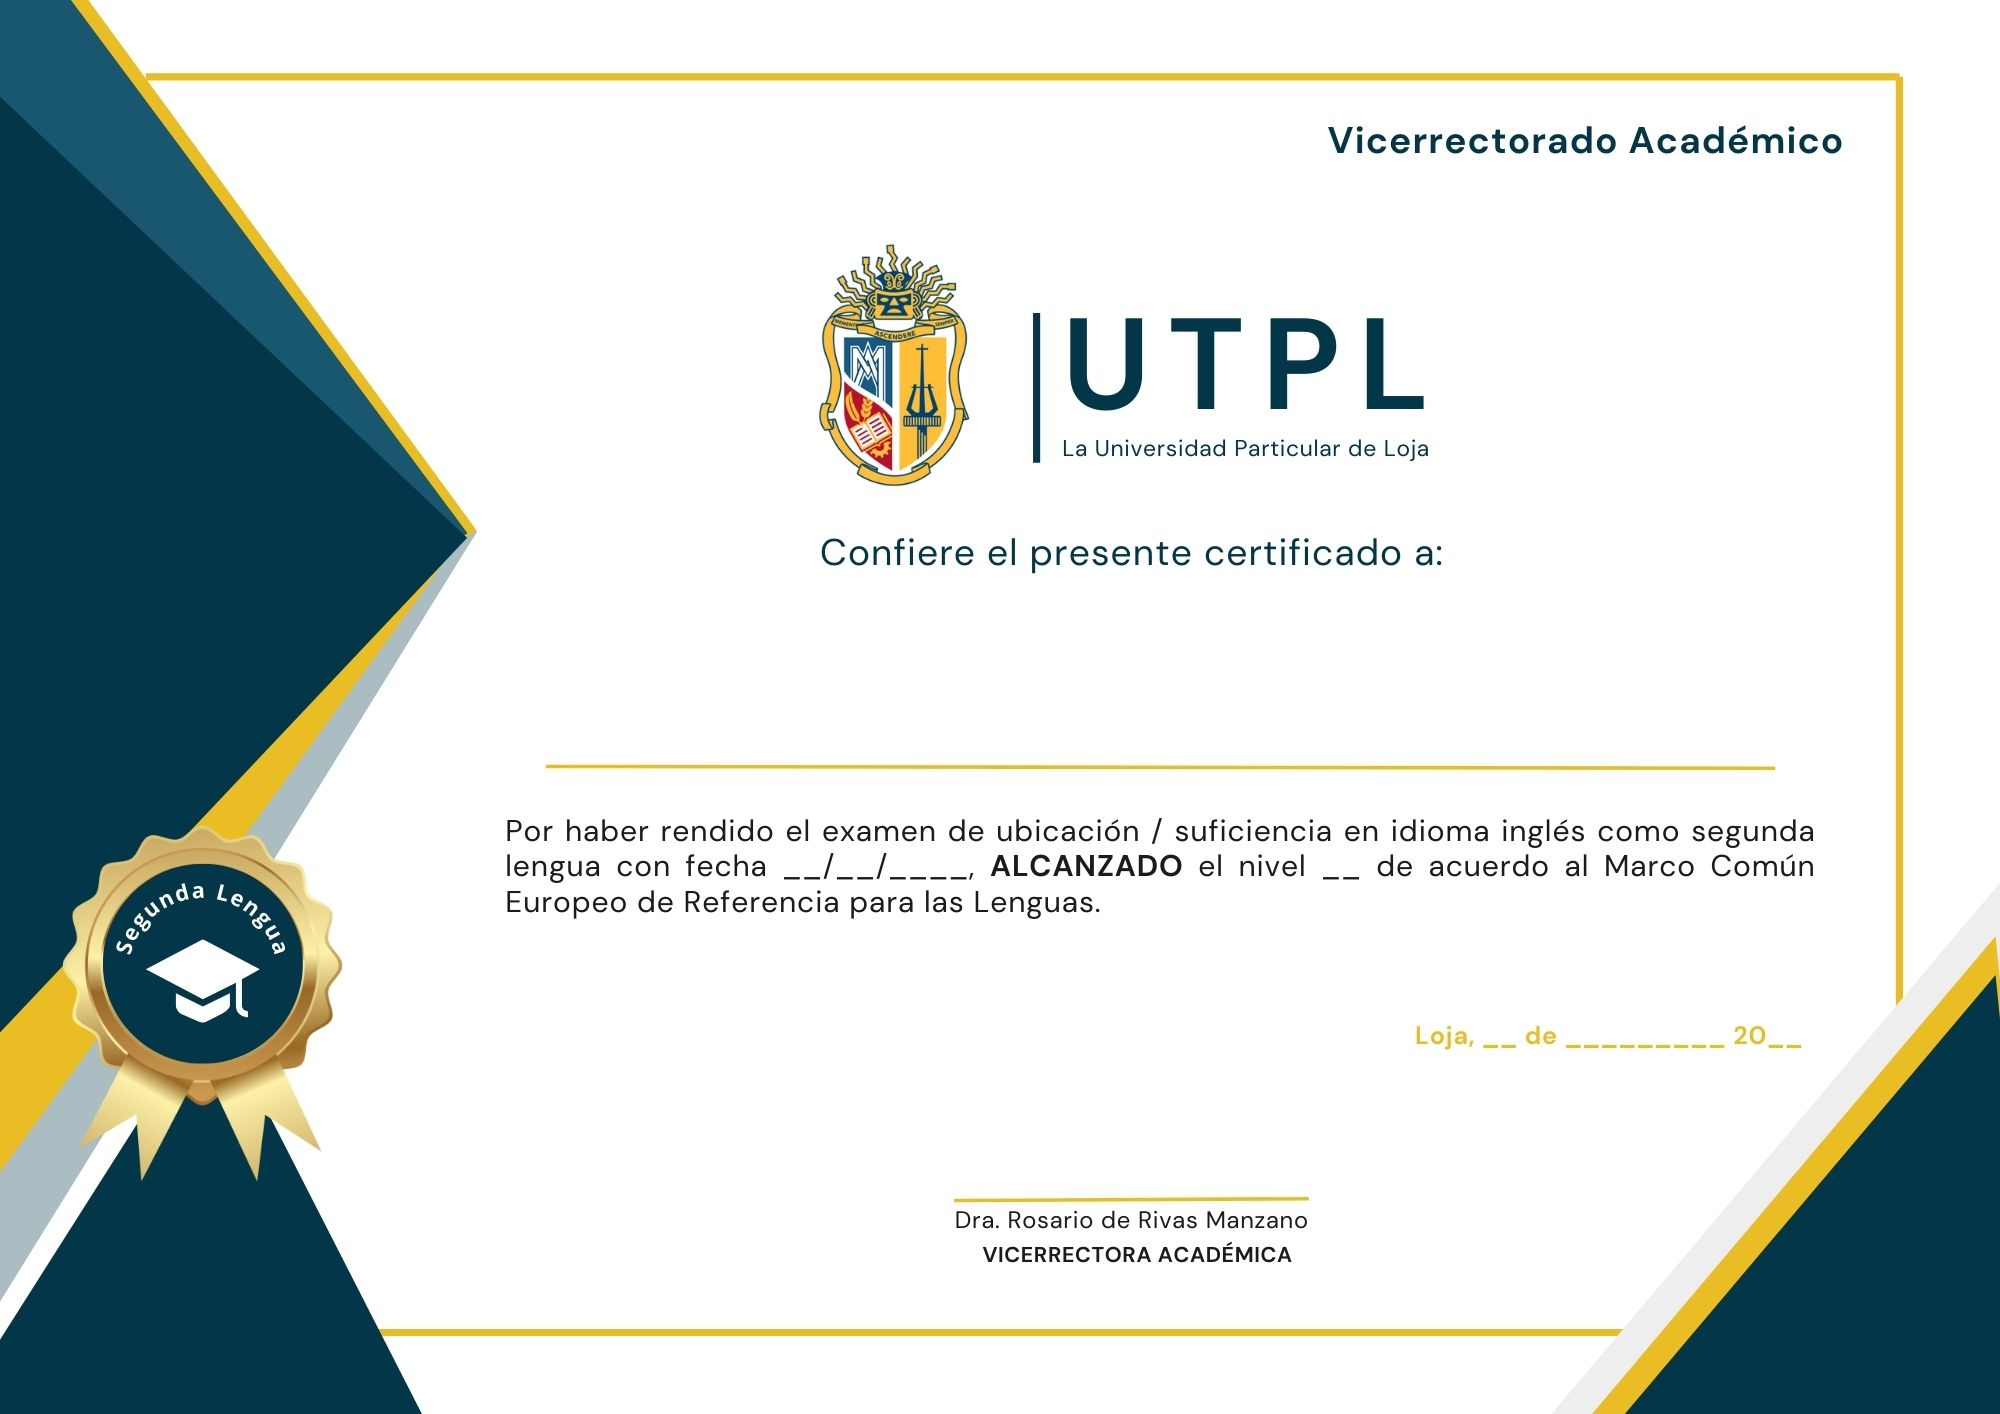
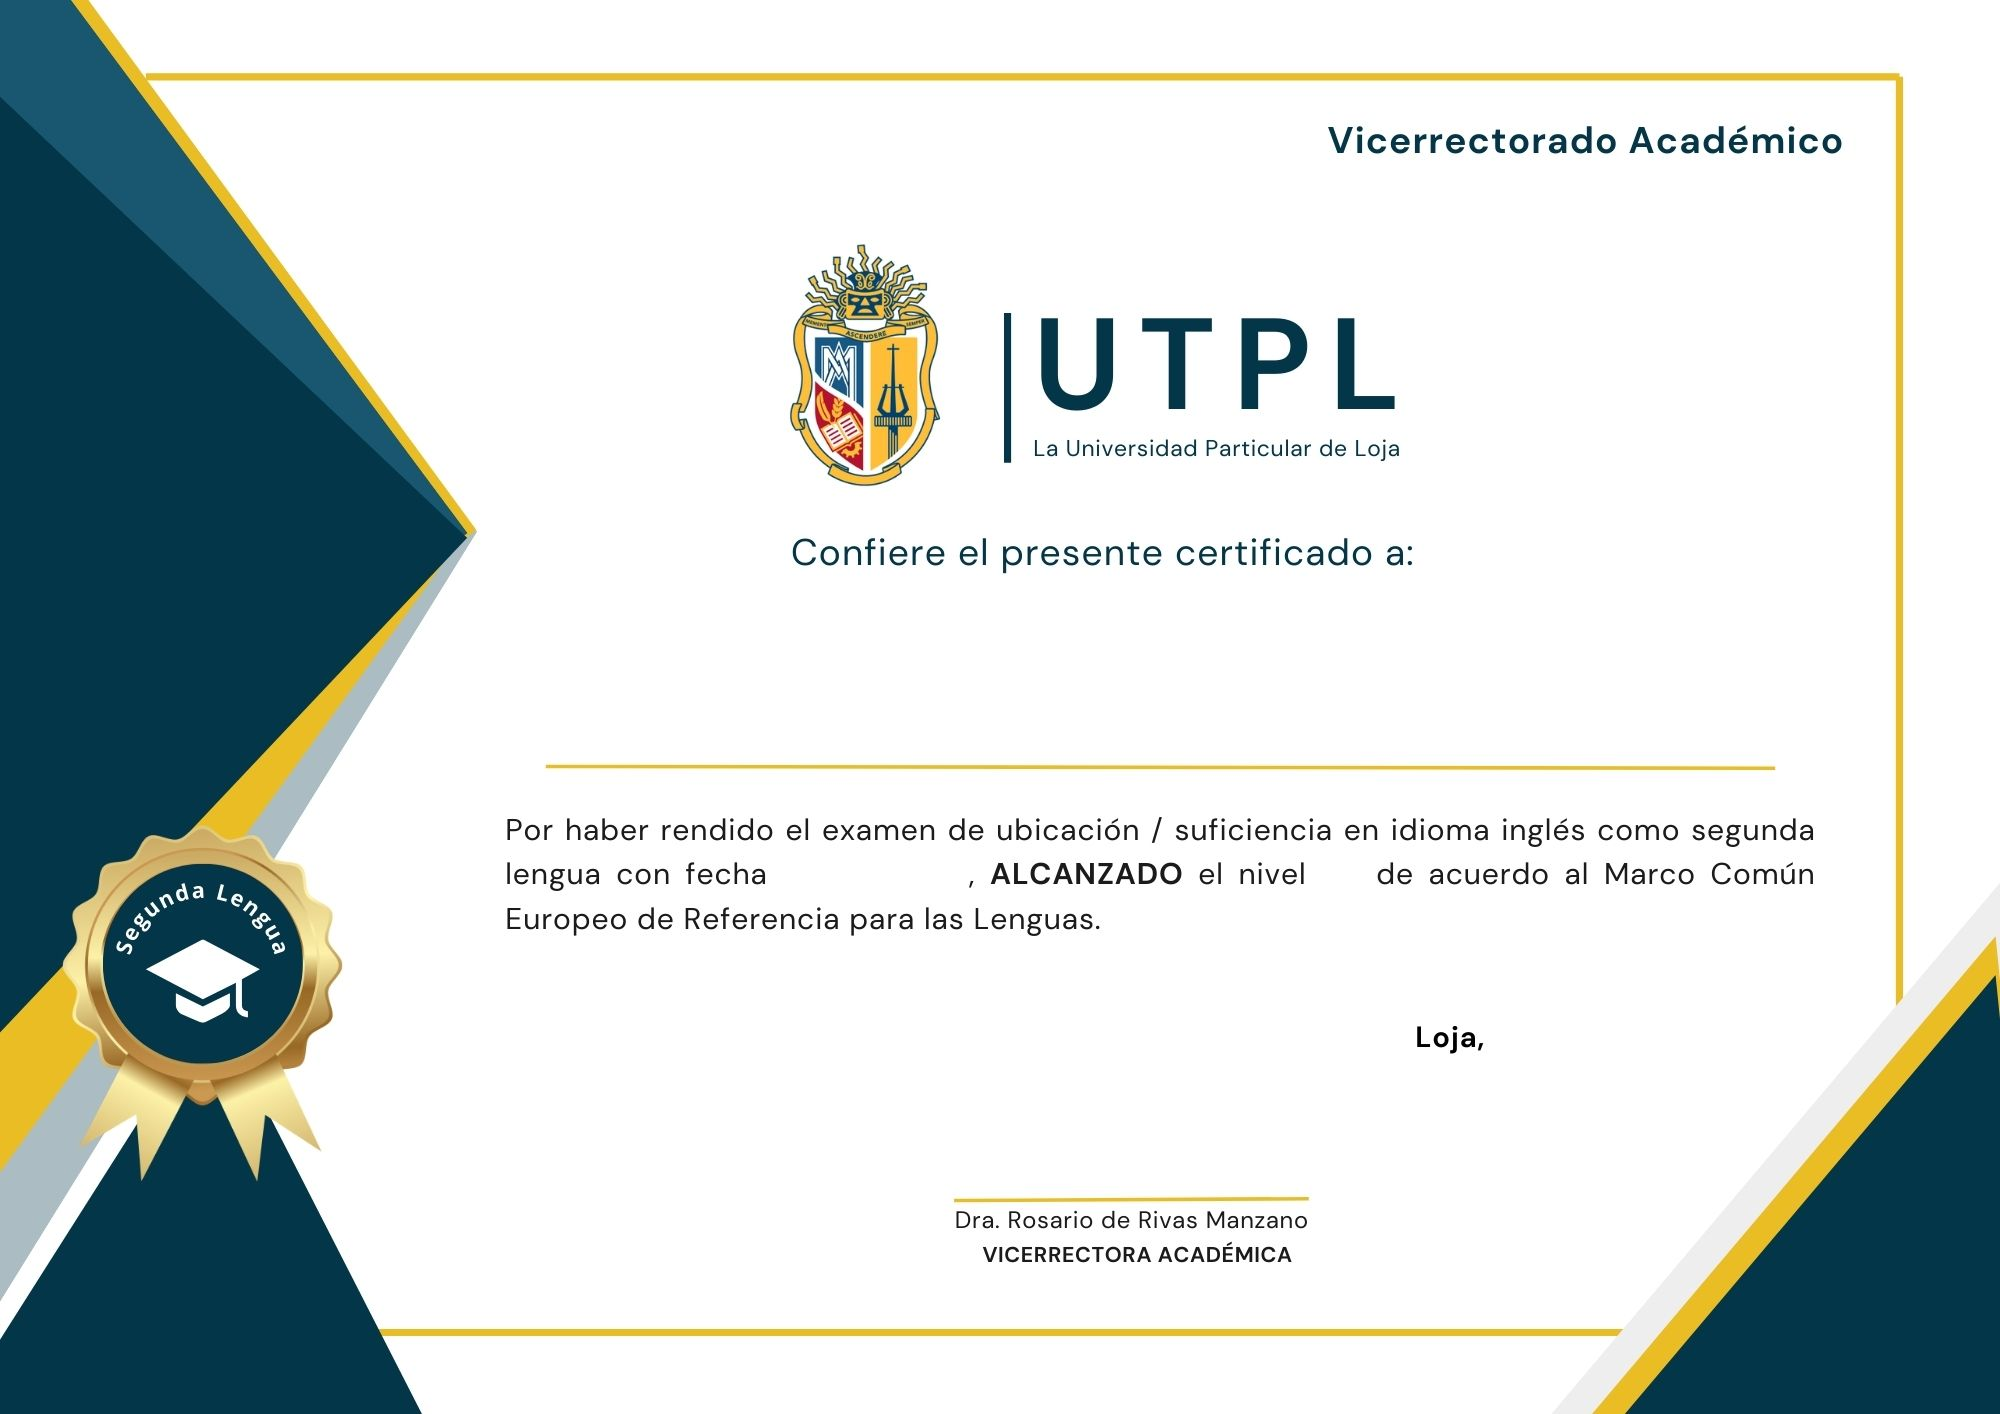
update pdf image

diff --git a/src/pages/dashboard/tablesStudent.jsx b/src/pages/dashboard/tablesStudent.jsx
@@ -21,14 +21,11 @@ export function TablesStudents() {
   const [collections, setCollections] = useState([]);
   const [ cedula, setCedula] = useState('');
 
- //const urlGetStudentsFirebase = 'http://127.0.0.1:5001/demopp-fb74e/us-central1/getStudents'
- //const urlGetStudentsFirebase = 'http://localhost:5000/api/getStudents'
+
   const urlGetStudentsFirebase = 'https://api-sgca-utpl.vercel.app/api/getStudents'
  const getStudents = async (collectionName) => {
       try {
         
-        
-        //const response = await axios.get(`http://localhost:5000/api/getStudents`, {
           const response = await axios.get(urlGetStudentsFirebase,{ 
           params: { collectionName: collectionName },
         });
@@ -40,14 +37,12 @@ export function TablesStudents() {
       }
     };
 
-     //const urlGetCollectionsFirebase = 'http://127.0.0.1:5001/demopp-fb74e/us-central1/getCollections'
-     //const urlGetCollectionsFirebase = 'http://localhost:5000/api/getCollections'
      const urlGetCollectionsFirebase = 'https://api-sgca-utpl.vercel.app/api/getCollections'
      
  
      const getCollections = async () => {
       try {
-        //const response = await axios.get('http://localhost:5000/api/getCollections');
+     
         const response = await axios.get(urlGetCollectionsFirebase);
         
         setCollections(response.data);
@@ -74,9 +69,13 @@ export function TablesStudents() {
     const doc = new jsPDF({ orientation: "landscape" });
     const date = student.fechaEnvio;
     // Cargar la imagen de plantilla
-    const imageUrl = "/img/1.jpg"; // Actualiza esta ruta
+    const imageUrl = "/img/1.jpg"; 
+    const imageUrl2 = "/img/2.jpg"; 
     const image = new Image();
     image.src = imageUrl;
+
+    const image2 = new Image();
+    image2.src = imageUrl2;
 
     image.onload = async() => {
       // Añadir la imagen al PDF
@@ -94,7 +93,10 @@ export function TablesStudents() {
           doc.text(date, 224, 154);
 
       // Guardar el PDF y crear un enlace de descarga
-      doc.addImage(qrCodeImageUrl, 'PNG', 250, 170, 40, 40); 
+      doc.addImage(qrCodeImageUrl, 'PNG', 265, 178, 30, 30); 
+       // Agregar una nueva página y la segunda imagen
+       doc.addPage();
+       doc.addImage(image2, "JPG", 0, 0, 297, 210);
 
       const pdfUrl = doc.output("datauristring");
       const link = document.createElement("a");
@@ -104,13 +106,17 @@ export function TablesStudents() {
     };
   };
 
+  
   const generatePDF = (student) => {
     return new Promise((resolve, reject) => {
       const doc = new jsPDF({ orientation: "landscape" });
       const date1 = obtenerFechaEnEspañol();
       const imageUrl = "/img/1.jpg"; // public
+      const imageUrl2 = "/img/2.jpg"; // public
       const image = new Image();
       image.src = imageUrl;
+      const image2 = new Image();
+      image2.src = imageUrl2;
   
       image.onload = async() => {
         try {
@@ -126,7 +132,10 @@ export function TablesStudents() {
           doc.text(student.nivel, 195, 130);
           doc.text(date1, 224, 154);
           
-          doc.addImage(qrCodeImageUrl, 'PNG', 250, 170, 40, 40); // 
+          doc.addImage(qrCodeImageUrl, 'PNG', 250, 170, 35, 35); // 
+
+          doc.addPage();
+          doc.addImage(image2, "JPG", 0, 0, 297, 210);
           const pdfData = doc.output('datauristring').split(',')[1];
           resolve(pdfData);
         } catch (error) {
@@ -137,12 +146,11 @@ export function TablesStudents() {
       image.onerror = (error) => reject(error);
     });
   };
-  //const urlSendEmailFirebase = 'http://127.0.0.1:5001/demopp-fb74e/us-central1/sendEmail'
-  //const urlUpdateStudentStatusFirebase = 'http://127.0.0.1:5001/demopp-fb74e/us-central1/updateStudentStatusBd'
-  //const urlSendEmailFirebase = 'http://localhost:5000/send-email'
+  
+
   const urlSendEmailFirebase = 'https://api-sgca-utpl.vercel.app/send-email'
   
-  //const urlUpdateStudentStatusFirebase = 'http://localhost:5000/api/updateStudentStatusBd'
+
 const urlUpdateStudentStatusFirebase = 'https://api-sgca-utpl.vercel.app/api/updateStudentStatusBd'
 
   const sendEmail = async (student, collectionName) => {
